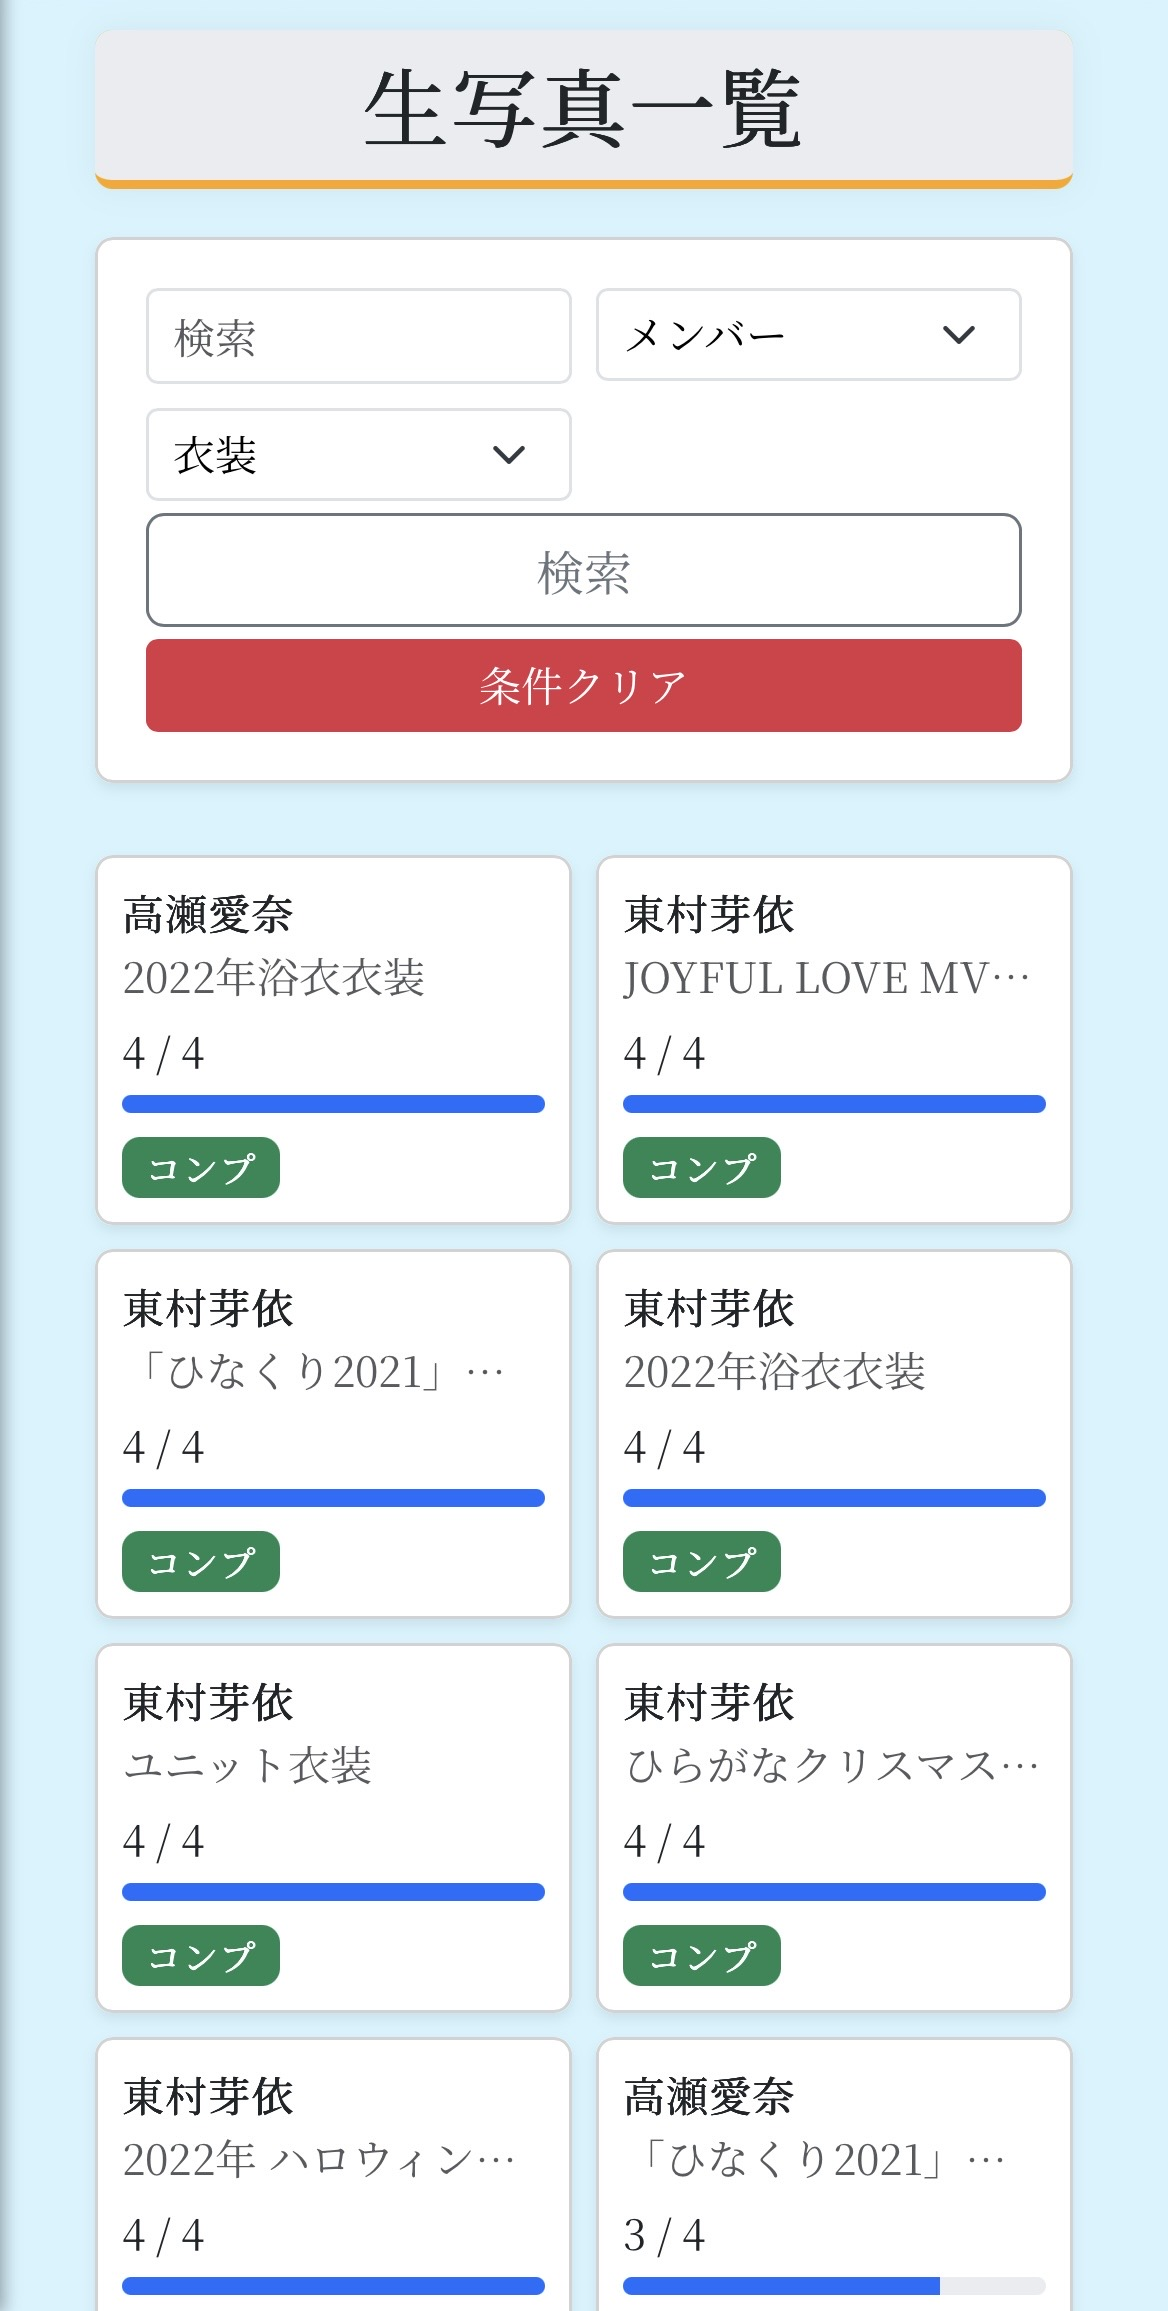
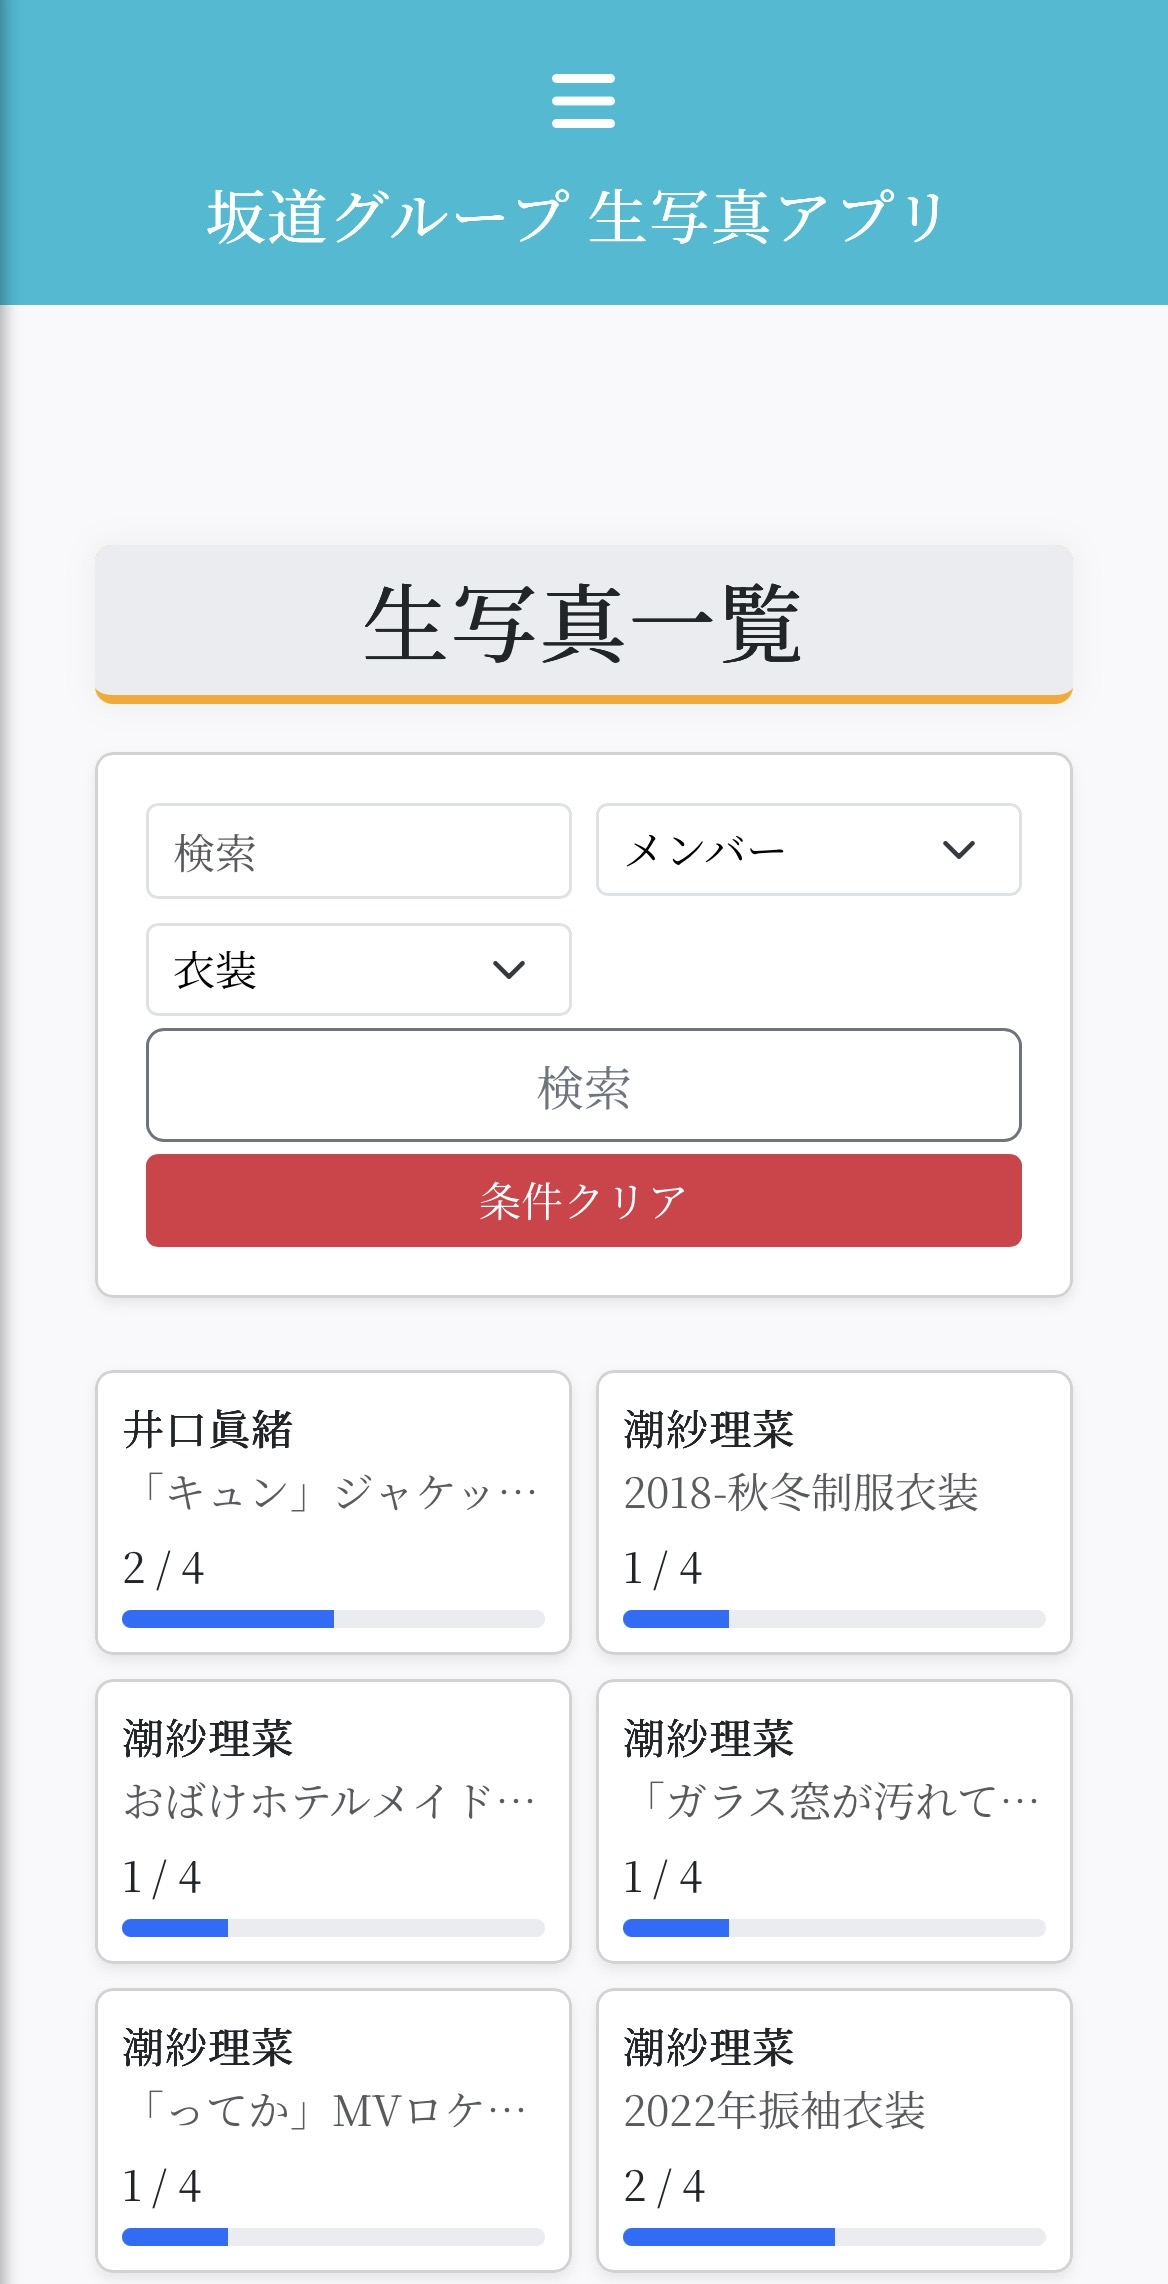
Update images and templates

diff --git a/templates/lp.html b/templates/lp.html
@@ -24,6 +24,23 @@
 
     <meta name="twitter:card" content="summary_large_image">
 
+    <!-- Twitter Card -->
+    <meta name="twitter:card" content="summary_large_image">
+    <meta name="twitter:title" content="坂道グループ 生写真アプリ">
+    <meta name="twitter:description" content="坂道グループの生写真を管理・記録できるアプリ">
+    <meta name="twitter:image" content="https://spcolle.com/static/images/ogp.png">
+    <meta name="csrf-token" content="{{ csrf_token() }}">
+
+    <!-- Google tag (gtag.js) -->
+    <script async src="https://www.googletagmanager.com/gtag/js?id=G-T328YZ27CL"></script>
+    <script>
+        window.dataLayer = window.dataLayer || [];
+        function gtag() { dataLayer.push(arguments); }
+        gtag('js', new Date());
+
+        gtag('config', 'G-T328YZ27CL');
+    </script>
+
     <link rel="manifest" href="/static/manifest.json">
 
     <link rel="icon" href="/static/images/icon-192.png">
